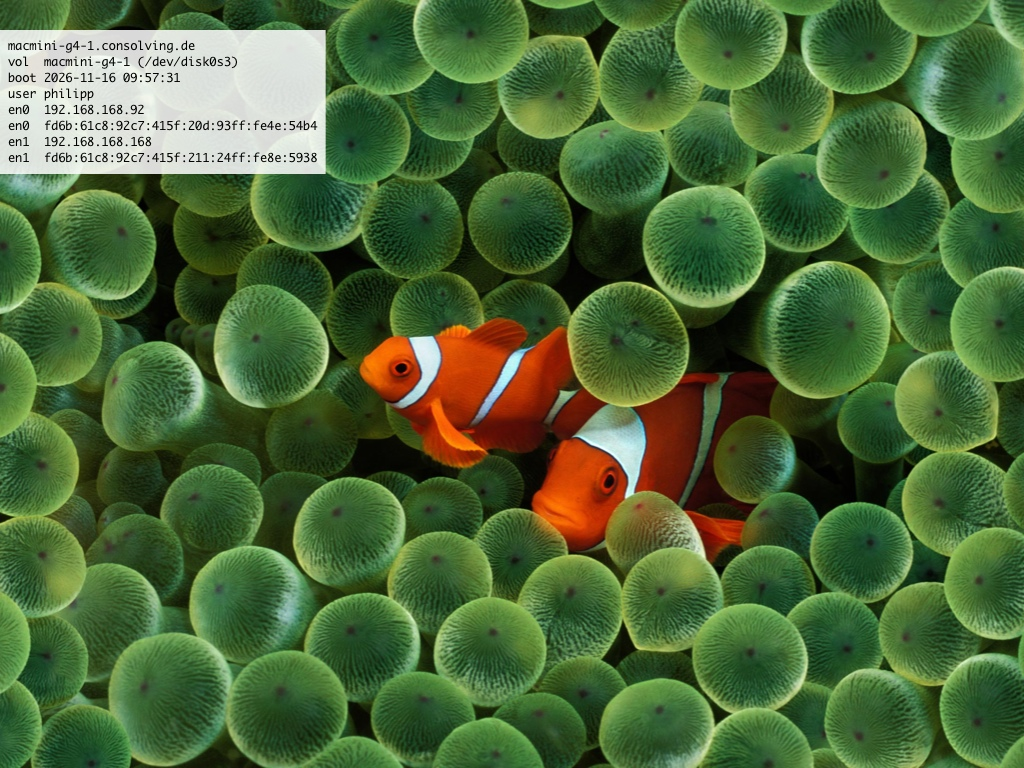
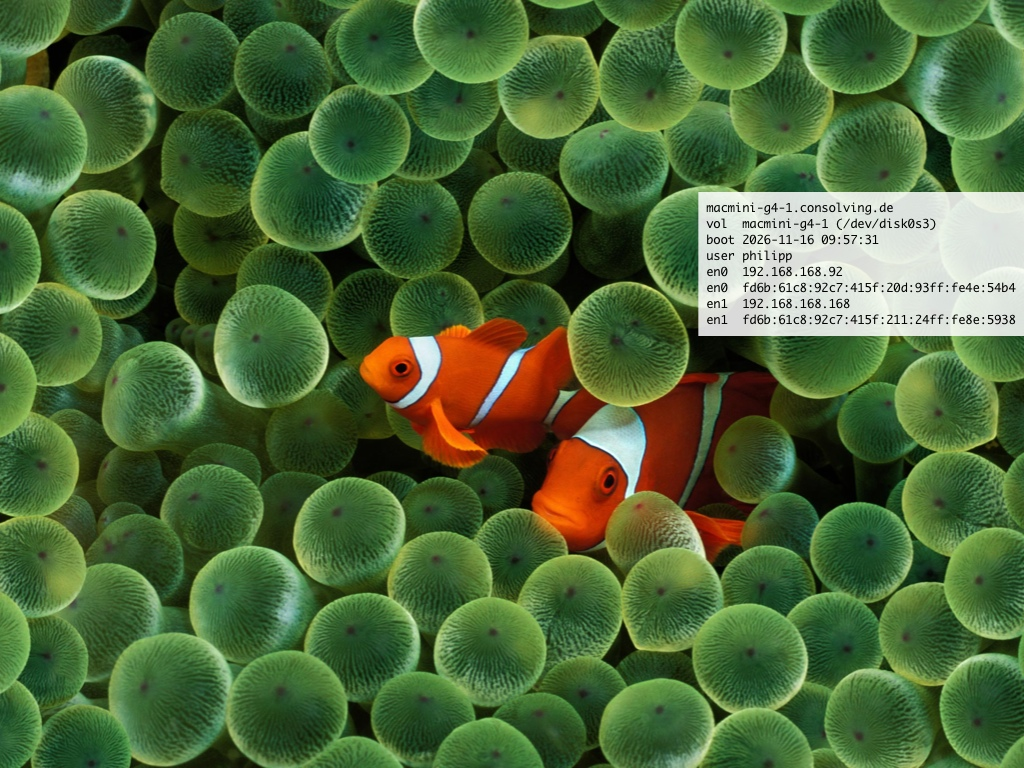
move info box to 70% width / 25% height
Position is now fractional (BOX_POS_X_FRAC / BOX_POS_Y_FRAC) and clamped
to stay inside the image. docs/wallpaper-example.jpg re-rendered.

Changed region(s): [[0.0, 0.0312, 0.3438, 0.25], [0.6562, 0.25, 1.0, 0.4375]]

diff --git a/src/wallinfo.c b/src/wallinfo.c
@@ -73,11 +73,10 @@
 #define VERSION "1.0"
 
 /* --- layout ------------------------------------------------------------ */
-/* The menu bar covers the top 22 px of the screen; the info box must start
- * below it. TOP_OFFSET = menu bar height + a small inset. */
-#define MENUBAR_HEIGHT   22
-#define BOX_INSET        8
-#define TOP_OFFSET       (MENUBAR_HEIGHT + BOX_INSET)
+/* Box position as fractions of the rendered (screen) size: left edge at
+ * 70% width, top edge at 25% height. Clamped so the box stays inside. */
+#define BOX_POS_X_FRAC   0.70f
+#define BOX_POS_Y_FRAC   0.25f
 
 #define FONT_NAME        "Monaco"
 #define FONT_SIZE        12.0f
@@ -605,7 +604,7 @@ static int render_wallpaper(const char *src, const char *dst,
     CGColorSpaceRef cs;
     void *buf = NULL;
     size_t w, h, i;
-    float maxw = 0, boxw, boxh, top_cg;
+    float maxw = 0, boxw, boxh, top_cg, box_left;
     CGImageRef out;
     CFURLRef durl;
     CGImageDestinationRef dest;
@@ -681,19 +680,29 @@ static int render_wallpaper(const char *src, const char *dst,
     boxh = in->n * LINE_HEIGHT + 2 * BOX_PAD;
     if (boxw > w) boxw = w;
     if (boxh > h) boxh = h;
-    top_cg = (float)h - TOP_OFFSET;           /* CG origin is bottom-left */
-    if (top_cg < boxh) top_cg = boxh;
+
+    /* position: fractions of the image (screen) size, clamped inside */
+    {
+        float box_x = w * BOX_POS_X_FRAC;
+        float box_y_top = h * BOX_POS_Y_FRAC;   /* top edge, screen coords */
+        if (box_x + boxw > w) box_x = w - boxw;
+        if (box_x < 0) box_x = 0;
+        if (box_y_top + boxh > h) box_y_top = h - boxh;
+        if (box_y_top < 0) box_y_top = 0;
+        top_cg = h - box_y_top;                 /* CG origin is bottom-left */
+        box_left = box_x;
+    }
 
     CGContextSetRGBFillColor(ctx, 1, 1, 1, BOX_ALPHA);
-    CGContextFillRect(ctx, CGRectMake(0, top_cg - boxh, boxw, boxh));
+    CGContextFillRect(ctx, CGRectMake(box_left, top_cg - boxh, boxw, boxh));
 
     CGContextSelectFont(ctx, FONT_NAME, FONT_SIZE, kCGEncodingMacRoman);
     CGContextSetRGBFillColor(ctx, 0, 0, 0, 1);
     CGContextSetTextDrawingMode(ctx, kCGTextFill);
     for (i = 0; i < (size_t)in->n; i++) {
         float baseline = top_cg - BOX_PAD - FONT_SIZE - i * LINE_HEIGHT;
-        CGContextShowTextAtPoint(ctx, BOX_PAD, baseline, in->lines[i],
-                                 strlen(in->lines[i]));
+        CGContextShowTextAtPoint(ctx, box_left + BOX_PAD, baseline,
+                                 in->lines[i], strlen(in->lines[i]));
     }
 
     out = CGBitmapContextCreateImage(ctx);

diff --git a/README.md b/README.md
@@ -86,9 +86,9 @@ en1  192.168.168.168
 en1  fd00:...
 ```
 
-The box starts 30 px from the top: 22 px menu bar height plus an 8 px inset
-(`TOP_OFFSET` in `src/wallinfo.c`) — verified by pixel-sampling the rendered
-wallpaper.
+The box is positioned at **70 % of the screen width** (left edge) and
+**25 % of the screen height** (top edge), clamped so it always stays fully
+inside the image (`BOX_POS_X_FRAC` / `BOX_POS_Y_FRAC` in `src/wallinfo.c`).
 
 The overlay is rendered at **screen resolution**: the source wallpaper is
 scaled to cover the screen (like the Dock's "fill screen" placement) before
